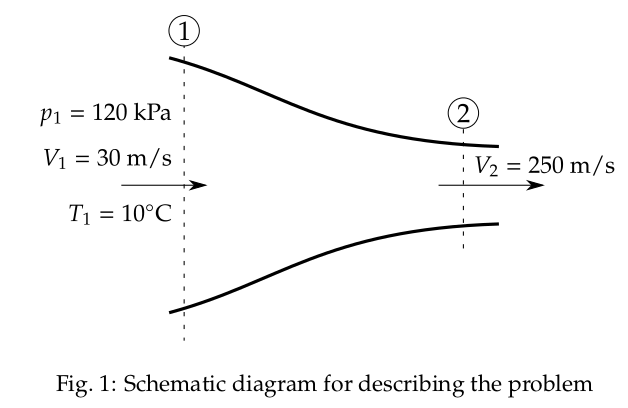
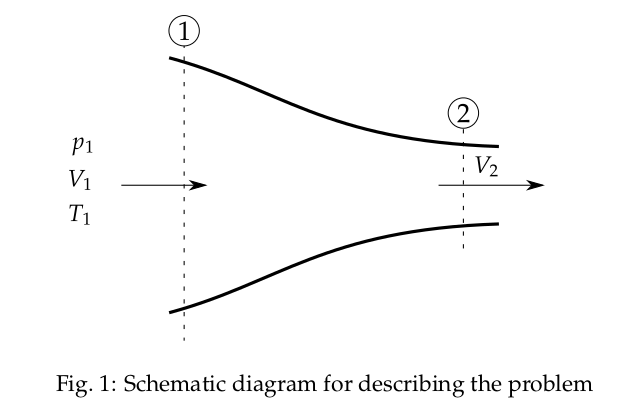
dynamic problem 1.1

diff --git a/cff/chap01/online/01/index.html b/cff/chap01/online/01/index.html
@@ -16,10 +16,6 @@
     <!-- Bootstrap CSS -->
     <link rel="stylesheet" href="../../../../vendor/bootstrap/css/bootstrap.min.css">
 
-    <!-- Math rendering -->
-    <script async
-        src="https://cdnjs.cloudflare.com/ajax/libs/mathjax/2.7.5/MathJax.js?config=TeX-MML-AM_CHTML"></script>
-
     <!--Font definitions-->
     <link href="https://fonts.googleapis.com/css2?family=Exo&family=Montserrat&family=Libre+Baskerville"
         rel="stylesheet">
@@ -55,14 +51,18 @@
         <hr>
         <h4>Problem 1.1:</h4>
         <div class="font1 text-justify">
-            An air stream enters a variable area channel at a velocity of 30 m/s with a pressure of 120 kPa and a
-            temperature of 10<sup>o</sup>C. At a certain point in the channel, the velocity is found to be 250 m/s.
-            Using
-            Bernoulli's equation (i.e. \( p + \rho V^2/2 = constant \)), which assumes incompressible flow, find
-            the pressure at this point. In this calculation, use the density evaluated at the inlet conditions. If the
-            temperature of the air is assumed to remain constant, evaluate the air density at the point in the flow
-            where the velocity is 250 m/s. Compare this density with the density at the inlet to the channel. Based on
-            this comparison, do you think that the use of Bernoulli's equation is justified?
+            An air stream enters a variable area channel at a velocity of
+            <input type="number" id="q-v1" value="30" size="3">m/s with a pressure of
+            <input type="number" id="q-p1" value="120" size="3">kPa and a temperature of
+            <input type="number" id="q-T1" value="10" size="3"><sup>o</sup>C. At a certain point in the channel, the
+            velocity is
+            found to be <input type="number" id="q-v2" value="250" size="4">m/s. Using Bernoulli's equation
+            (i.e. \( p + \rho V^2/2 = constant \)), which assumes incompressible flow, find the pressure at this point.
+            In this calculation, use the density evaluated at the inlet conditions. If the temperature of the air is
+            assumed to remain constant, evaluate the air density at the point in the flow where the velocity is
+            <span id="qo-v2">250</span>m/s.
+            Compare this density with the density at the inlet to the channel. Based on this comparison, do you think
+            that the use of Bernoulli's equation is justified?
         </div>
         <br>
         <h4>Solution:</h4>
@@ -74,9 +74,11 @@
             Since the flow is assumed to be incompressible, \( \rho \) is constant and can be calculated at station
             <span class="circled">1</span> using ideal gas equation,
 
-            $$
-            \rho=\rho_{1}=\frac{p_{1}}{R\,T_{1}}=\frac{120\times10^{3}}{287\times\left(10+273\right)}=1.47745\,\text{kg/m}^{3}
-            $$
+            <div id="eq-rho">
+                <!-- \[
+                \rho=\rho_{1}=\frac{p_{1}}{R\,T_{1}}=\frac{120\times10^{3}}{287\times\left(10+273\right)}=1.47745\,\text{kg/m}^{3}
+                \] -->
+            </div>
 
             Using the Bernoulli's equation
 
@@ -108,32 +110,42 @@
             <br>
             <!-- Ad End -->
 
-            Substituting \( \rho=1.47745\,\text{kg/m}^{3} \) in (eq.1), the pressure at station
+            Substituting <span id="rho-value"><!--\( \rho=1.47745\,\text{kg/m}^{3} \)--></span> in (eq.1), the pressure
+            at station
             <span class="circled">2</span> can be calculated as,
 
             $$
             p_{2}=p_{1}+\frac{\rho}{2}\left(V_{1}^{2}-V_{2}^{2}\right)
             $$
 
-            $$
-            p_{2}=120\times10^{3}+\frac{1.47745}{2}\left(30^{2}-250^{2}\right) = 74494.54\,\text{Pa}
-            $$
+            <div id="eq-p2">
+                <!-- $$
+                p_{2}=120\times10^{3}+\frac{1.47745}{2}\left(30^{2}-250^{2}\right) = 74494.54\,\text{Pa}
+                $$ -->
+            </div>
 
-            $$
-            \boxed{\left.p_{2}\right|_{\text{incomp.}}=74.49454\,\text{kPa}}
-            $$
+            <div id="p2-boxed">
+                <!-- $$
+                \boxed{\left.p_{2}\right|_{\text{incomp.}}=74.49454\,\text{kPa}}
+                $$ -->
+            </div>
 
             If the temperature of the air is assumed to remain constant,
-            \( T_{2}=T_{1}=283\,\text{K} \), then we can calculate the density at station
+            <span id="T2T1-value"><!-- \( T_{2}=T_{1}=283\,\text{K} \) --></span>,
+            then we can calculate the density at station
             <span class="circled">2</span> to be,
 
-            $$
-            \rho=\frac{p_{2}}{R\,T_{2}}=\frac{74494.54}{287\times283}
-            $$
+            <div id="rhoT-const">
+                <!-- $$
+                \rho=\frac{p_{2}}{R\,T_{2}}=\frac{74494.54}{287\times283}
+                $$ -->
+            </div>
 
-            $$
-            \boxed{\left.\rho\right|_{T=\text{constant}}=0.917183\,\text{kg/m}^{3}}
-            $$
+            <div id="rhoT-const-boxed">
+                <!-- $$
+                \boxed{\left.\rho\right|_{T=\text{constant}}=0.917183\,\text{kg/m}^{3}}
+                $$ -->
+            </div>
 
             The percentage difference in calculated density, at station
             <span class="circled">1</span> and assuming constant temperature is,
@@ -142,17 +154,20 @@
             \%\ \text{difference in density calculation} =
             \frac{\rho_{1}-\left.\rho\right|_{T=\text{constant}}}{\left.\rho\right|_{\text{Bernoulli}}}\times100
             $$
-            $$
-            = \frac{1.47745-0.917183}{1.47745}\times100
-            = 37.92\%
-            $$
+            <div id="percent-change-out">
+                <!-- $$
+                = \frac{1.47745-0.917183}{1.47745}\times100
+                = 37.92\%
+                $$ -->
+            </div>
 
-            Based on this comparison, it is clear that the
-            <u><strong>use of Bernoulli's equation is not justified,</strong></u>
-            as in an incompressible flow (with no heat transfer) the temperature variations are negligible.
-            Therefore, the density calculated with this assumption must closely match with the result of
-            Bernoulli's equation if the flow is indeed incompressible.
-
+            <div id="conclusion-out">
+                <!-- Based on this comparison, it is clear that the
+                <u><strong>use of Bernoulli's equation is not justified,</strong></u>
+                as in an incompressible flow (with no heat transfer) the temperature variations are negligible.
+                Therefore, the density calculated with this assumption must closely match with the result of
+                Bernoulli's equation if the flow is indeed incompressible. -->
+            </div>
         </div>
 
         <hr>
@@ -200,6 +215,10 @@
     <!-- jQuery first, then Bootstrap JS -->
     <script src="../../../../vendor/jquery/jquery.slim.min.js"></script>
     <script src="../../../../vendor/bootstrap/js/bootstrap.min.js"></script>
+
+    <!-- Math rendering -->
+    <script async id="MathJax-script" src="https://cdn.jsdelivr.net/npm/mathjax@4.0.0/tex-chtml.js"></script>
+    <script src="./script-min.js"></script>
 </body>
 
 </html>

diff --git a/cff/chap01/online/01/script-min.js b/cff/chap01/online/01/script-min.js
@@ -1,0 +1,10 @@
+function c(a,b){a.g&&b==a.u||(a.g&&b==a.u||Number.isNaN(b)||!Number.isFinite(b)||(b=Math.max(b,1),b=Math.min(b,500),a.u=b,d(a),e(a)),a.A.value=`${a.u}`)}function f(a,b){a.g&&b==a.i||(a.g&&b==a.i||Number.isNaN(b)||!Number.isFinite(b)||(b=Math.max(b,101),b=Math.min(b,200),a.i=b,g(a,a.i*1E3/(287*(a.h+273))),d(a),h(a),e(a)),a.v.value=`${a.i}`)}
+function k(a,b){a.g&&b==a.h||(a.g&&b==a.h||Number.isNaN(b)||!Number.isFinite(b)||(b=Math.max(b,-10),b=Math.min(b,100),a.h=b,g(a,a.i*1E3/(287*(a.h+273))),h(a),a.G.innerHTML=`\\( T_{2}=T_{1}=${a.h+273}\\,\\text{K} \\)`,l(a),m(a,a.l/287/(a.h+273))),a.C.value=`${a.h}`)}function n(a,b){a.g&&b==a.m||(a.g&&b==a.m||Number.isNaN(b)||!Number.isFinite(b)||(b=Math.max(b,1),b=Math.min(b,500),a.m=b,a.P.innerText=`${a.m}`,d(a),e(a)),a.B.value=`${a.m}`)}
+function d(a){var b=a.u;var r=a.m;b=a.i*1E3+a.j/2*(b*b-r*r);a.g&&b==a.l||a.g&&b==a.l||Number.isNaN(b)||!Number.isFinite(b)||(a.l=b,e(a),a.K.innerHTML=`$$\\boxed{\\left.p_{2}\\right|_{\\text{incomp.}}=${(a.l/1E3).toFixed(4)}\\,\\text{kPa}}$$`,p(),l(a),m(a,a.l/287/(a.h+273)))}function g(a,b){a.g&&b==a.j||a.g&&b==a.j||Number.isNaN(b)||!Number.isFinite(b)||(a.j=b,d(a),h(a),a.O.innerHTML=`\\(\\rho=${a.j.toFixed(4)}\\,\\text{kg/m}^3\\)`,p(),e(a),b=a.j,q(a,(b-a.o)/b*100),t(a))}
+function h(a){a.J.innerHTML="\\[\n"+`\\rho=\\rho_{1}=\\frac{p_{1}}{R\\,T_{1}}=\\frac{${a.i}\\times10^{3}}{287\\times\\left(${a.h}+273\\right)}=${a.j.toFixed(4)}\\,\\text{kg/m}^{3}`+"\n\\]";p()}function e(a){a.I.innerHTML=`$$p_{2}=${a.i}\\times10^{3}+\\frac{${a.j.toFixed(4)}}{2}\\left(${a.u}^{2}-${a.m}^{2}\\right) = ${a.l.toFixed(2)}\\,\\text{Pa}$$`;p()}function l(a){a.M.innerHTML=`$$\\rho=\\frac{p_{2}}{R\\,T_{2}}=\\frac{${a.l.toFixed(2)}}{287\\times ${a.h+273}}$$`}
+function m(a,b){a.g&&b==a.o||a.g&&b==a.o||Number.isNaN(b)||!Number.isFinite(b)||(a.o=b,a.N.innerHTML=`$$\\boxed{\\left.\\rho\\right|_{T=\\text{constant}}=${a.o.toFixed(4)}\\,\\text{kg/m}^{3}}$$`,b=a.j,q(a,(b-a.o)/b*100),t(a))}
+function q(a,b){a.g&&b==a.D||a.g&&b==a.D||Number.isNaN(b)||!Number.isFinite(b)||(a.D=b,t(a),b=Math.abs(a.D)>5?"Based on this comparison, it is clear that the <u><strong>use of Bernoulli's equation is not justified,</strong></u> as in an incompressible flow (with no heat transfer) the temperature variations are negligible. Therefore, the density calculated with this assumption must closely match with the result of Bernoulli's equation if the flow is indeed incompressible.":"Based on this comparison, it is clear that the <u><strong>use of Bernoulli's equation is justified,</strong></u> as in an incompressible flow (with no heat transfer) the temperature variations are negligible. The density calculated with this assumption closely match with the result of Bernoulli's equation therefore the flow can be assumed to be incompressible.",
+a.g&&b==a.F||a.g&&b==a.F||(a.F=b,a.H.innerHTML=a.F))}function t(a){const b=`${a.j.toFixed(4)}`;a.L.innerHTML=`$$= \\frac{${b} - ${`${a.o.toFixed(4)}`}}{${b}}\\times 100 = ${`${a.D.toFixed(2)}`}\\%$$`}
+class u{constructor(){this.g=!1;this.A=document.getElementById("q-v1");this.A.addEventListener("change",()=>c(this,parseInt(this.A.value,10)));this.A.step="1";this.A.min="1";this.A.max="500";this.v=document.getElementById("q-p1");this.v.addEventListener("change",()=>f(this,parseInt(this.v.value,10)));this.v.step="1";this.v.min="101";this.v.max="200";this.C=document.getElementById("q-T1");this.C.addEventListener("change",()=>k(this,parseInt(this.C.value,10)));this.C.step="1";this.C.min="-10.0";this.C.max=
+"100";this.B=document.getElementById("q-v2");this.B.addEventListener("change",()=>n(this,parseInt(this.B.value,10)));this.B.step="1";this.B.min="1";this.B.max="500";this.P=document.getElementById("qo-v2");this.J=document.getElementById("eq-rho");this.O=document.getElementById("rho-value");this.I=document.getElementById("eq-p2");this.K=document.getElementById("p2-boxed");this.G=document.getElementById("T2T1-value");this.M=document.getElementById("rhoT-const");this.N=document.getElementById("rhoT-const-boxed");
+this.L=document.getElementById("percent-change-out");this.H=document.getElementById("conclusion-out");this.u=30;this.i=120;this.h=10;this.m=250;this.D=this.o=this.l=this.j=0;this.F="";c(this,this.u);f(this,this.i);k(this,this.h);n(this,this.m);this.g=!0}}let v=!1;document.getElementById("MathJax-script")?.addEventListener("load",()=>{v=!0;console.log("MathJax loaded successfully!")});new u;function p(){v?MathJax.typesetPromise():console.log("MathJax not loaded yet!")};
